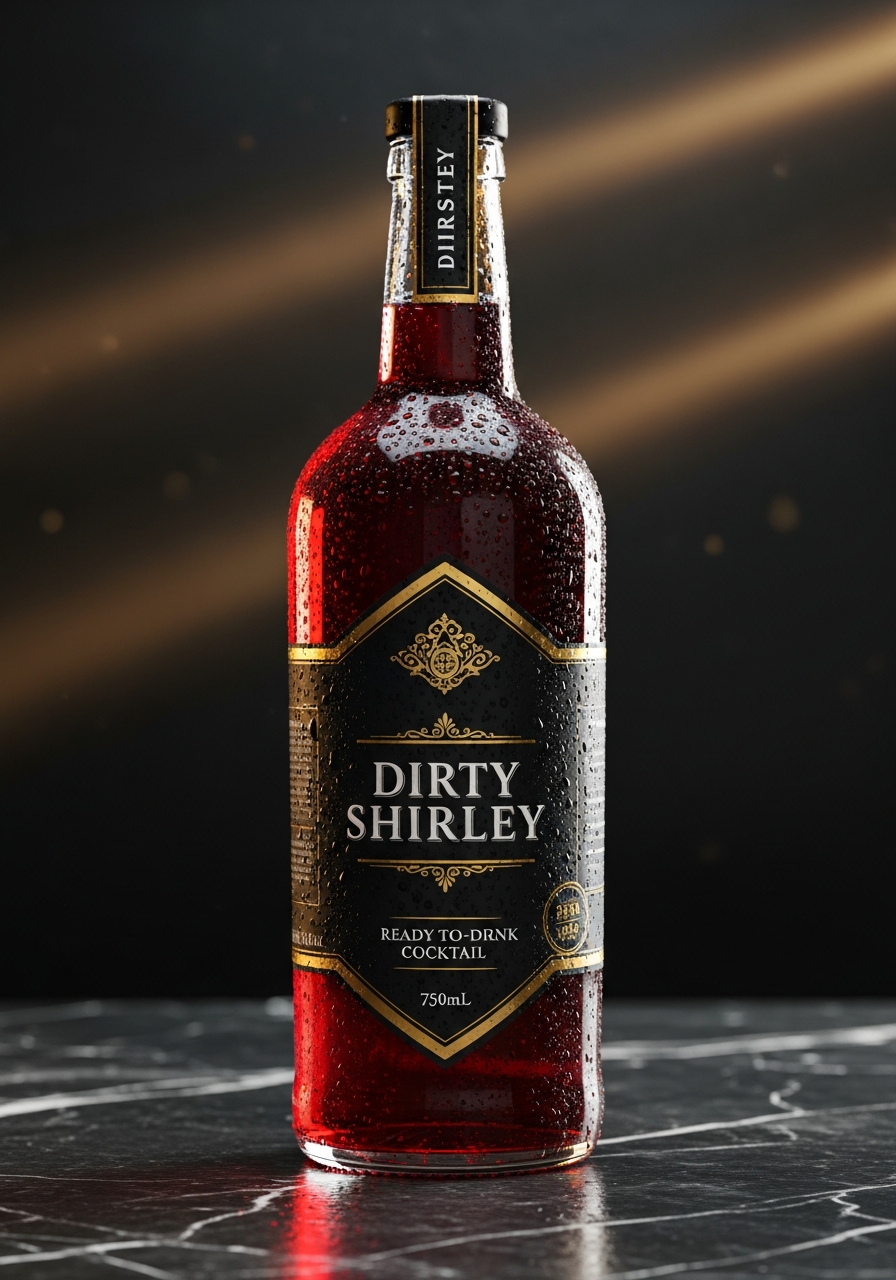
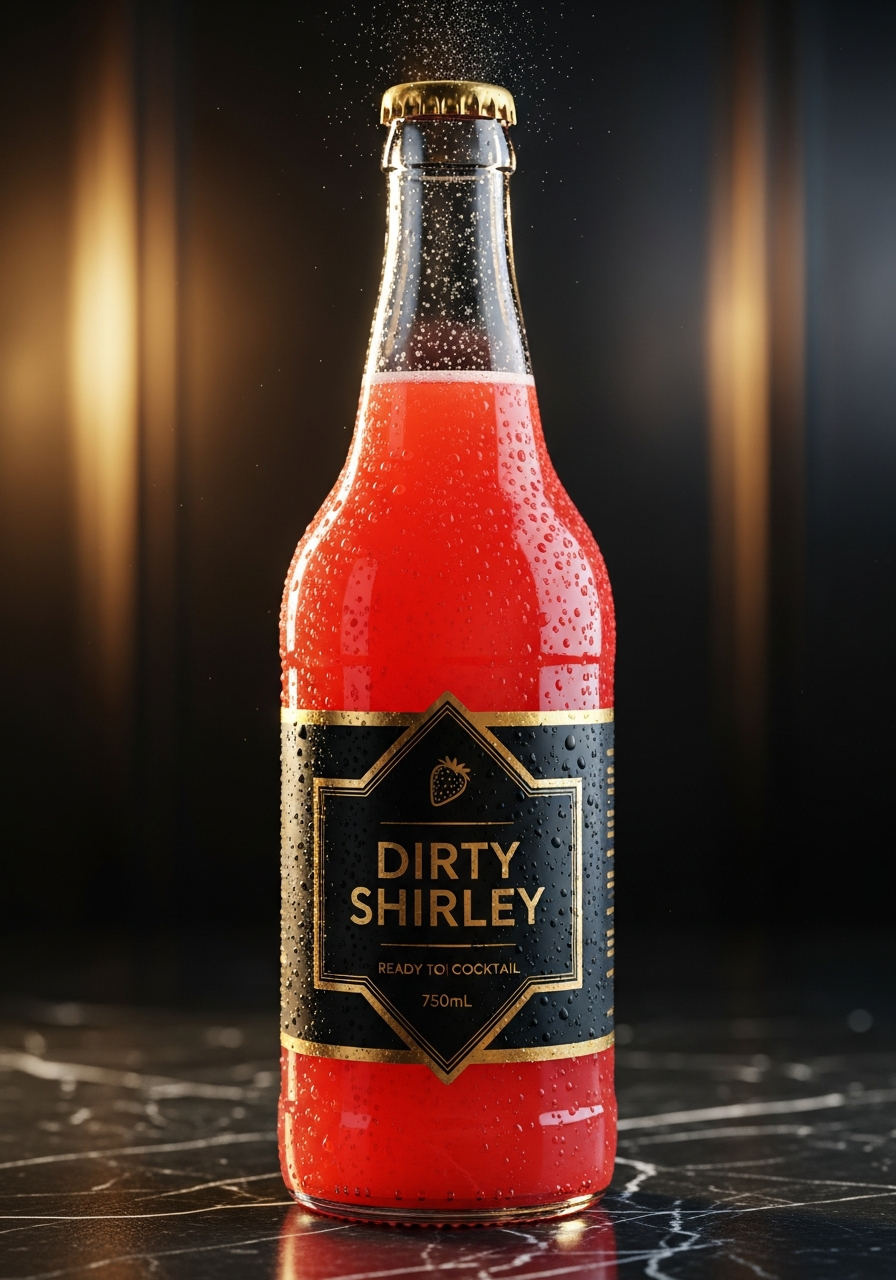
Update cocktail descriptions, ABV, and imagery to match user requests
Update product details in `server/seed.ts` and regenerate bottle images (`client/public/images/`) to reflect clarified cocktail appearance, 12.5% ABV, and carbonation.

Replit-Commit-Author: Agent
Replit-Commit-Session-Id: 8038cb0b-556c-4faf-96ef-711e073af171
Replit-Commit-Checkpoint-Type: full_checkpoint
Replit-Commit-Event-Id: d486346f-4dc4-4c71-84a5-494907a7f98a
Replit-Commit-Screenshot-Url: https://storage.googleapis.com/screenshot-production-us-central1/626f3873-3182-4dc8-a924-dadd2558de8f/8038cb0b-556c-4faf-96ef-711e073af171/nJtQDgu
Replit-Helium-Checkpoint-Created: true

diff --git a/server/seed.ts b/server/seed.ts
@@ -6,13 +6,13 @@ const seedProducts = [
     name: "Dirty Shirley",
     slug: "dirty-shirley",
     tagline: "Clarified, carbonated, and dangerously smooth.",
-    description: "A sophisticated take on the classic Shirley Temple, elevated with premium clarified vodka. Bright grenadine sweetness meets fresh lime and effervescent carbonation for a cocktail that's as beautiful as it is balanced. Crystal clear with a rosy blush, each sip reveals layers of tart citrus and delicate pomegranate.",
-    ingredients: "Clarified Vodka, Grenadine, Fresh Lime, Carbonated Water",
+    description: "A sophisticated take on the classic Shirley Temple, elevated with premium vodka. The entire cocktail is clarified to a stunning translucent strawberry hue, then carbonated for a crisp, effervescent finish. Bright grenadine sweetness meets fresh lime in a sparkling cocktail that looks like liquid jewels and drinks like velvet.",
+    ingredients: "Vodka, Grenadine, Fresh Lime, Carbonated",
     spirit: "Vodka",
     price: "29.99",
     volume: "750mL",
     servings: 4,
-    abv: "8%",
+    abv: "12.5%",
     imageUrl: "/images/dirty-shirley.png",
     color: "#c94060",
     featured: true,
@@ -20,14 +20,14 @@ const seedProducts = [
   {
     name: "Orange Julius",
     slug: "orange-julius",
-    tagline: "Creamy citrus indulgence, reimagined.",
-    description: "The nostalgic orange cream flavor you remember, transformed into a sophisticated adult indulgence. Smooth vodka melds with fresh-squeezed orange juice and house-made vanilla syrup, creating a velvety, dreamsicle-like cocktail. Rich, creamy, and impossibly smooth with a long vanilla finish.",
-    ingredients: "Vodka, Fresh Orange Juice, Vanilla Syrup, Cream",
+    tagline: "Creamy citrus indulgence, clarified and sparkling.",
+    description: "The nostalgic orange cream flavor you remember, transformed into a crystal-clear sparkling indulgence. The entire cocktail is clarified to a pale, luminous gold reminiscent of fine white wine, then carbonated for lively effervescence. Vodka melds with fresh orange juice and house-made vanilla syrup, delivering dreamsicle flavors in a remarkably elegant, sparkling form.",
+    ingredients: "Vodka, Fresh Orange Juice, Vanilla Syrup, Carbonated",
     spirit: "Vodka",
     price: "29.99",
     volume: "750mL",
     servings: 4,
-    abv: "8%",
+    abv: "12.5%",
     imageUrl: "/images/orange-julius.png",
     color: "#e8a040",
     featured: true,
@@ -35,14 +35,14 @@ const seedProducts = [
   {
     name: "Mezcal Soda",
     slug: "mezcal-soda",
-    tagline: "Smoky, bright, and utterly addictive.",
-    description: "For those who crave depth and complexity. Premium mezcal brings its signature smokiness, perfectly tempered by bright lemon and a whisper of vanilla syrup. Light, effervescent, and endlessly drinkable with a long, smoldering finish that lingers beautifully.",
-    ingredients: "Mezcal, Fresh Lemon, Vanilla Syrup, Soda Water",
+    tagline: "Smoky, bright, and brilliantly clear.",
+    description: "For those who crave depth and complexity. Premium mezcal brings its signature smokiness, perfectly tempered by bright lemon and a whisper of vanilla syrup. The entire cocktail is clarified to a pristine pale gold, like a fine white wine, then carbonated for a crisp, sparkling finish. Endlessly drinkable with a long, smoldering finish that lingers beautifully.",
+    ingredients: "Mezcal, Fresh Lemon, Vanilla Syrup, Carbonated",
     spirit: "Mezcal",
     price: "29.99",
     volume: "750mL",
     servings: 4,
-    abv: "8%",
+    abv: "12.5%",
     imageUrl: "/images/mezcal-soda.png",
     color: "#c4a050",
     featured: true,
